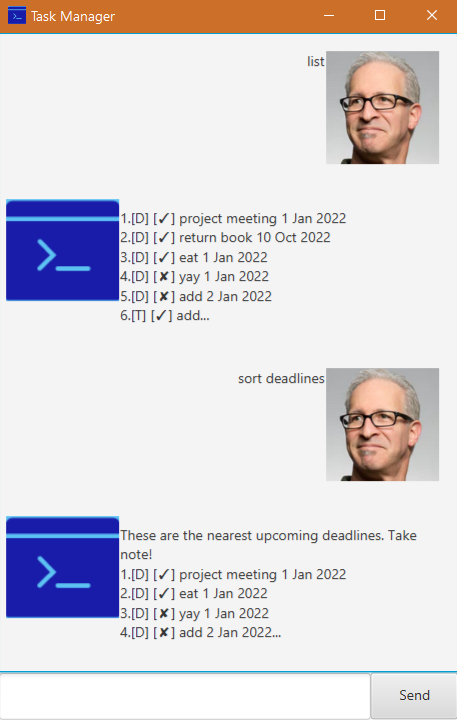
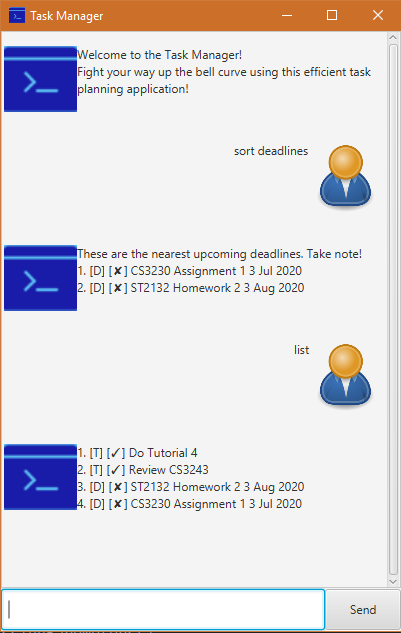
Update UI and README

Changed region(s): [[0.0, 0.0, 1.0, 1.0]]

diff --git a/src/main/java/Ui.java b/src/main/java/Ui.java
@@ -29,10 +29,10 @@ public class Ui {
     }
 
     public String showCommandNotFound() {
-        return "☹ OOPS!!! I'm sorry, but I don't know what that means :-(";
+        return "Sorry, I didn't get that. Please try again.";
     }
 
     public String showMissingParemeters() {
-        return "☹ OOPS!!! Either filter criterion (date/month/year) or its value is missing. Please try again.";
+        return "OOPS!!! Either filter criterion (date/month/year) or its value is missing. Please try again.";
     }
 }

diff --git a/src/main/java/TaskList.java b/src/main/java/TaskList.java
@@ -67,7 +67,7 @@ public class TaskList {
     public String printTasks() {
         StringBuilder result = new StringBuilder();
         for (int i = 0; i < tasks.size(); i++) {
-            result.append((i + 1) + "." + tasks.get(i).toString() + "\n");
+            result.append((i + 1) + ". " + tasks.get(i).toString() + "\n");
         }
         return result.toString();
     }

diff --git a/src/main/java/Duke.java b/src/main/java/Duke.java
@@ -158,7 +158,7 @@ public class Duke {
             final String BLAH_MESSAGE = "blah";
             return BLAH_MESSAGE;
         } else {
-            return ui.showCommandNotFound() + ui.showLineOfUnderscores();
+            return ui.showCommandNotFound();
         }
         return "I don't understand what you are saying";
     }

diff --git a/docs/README.md b/docs/README.md
@@ -1,22 +1,81 @@
-# User Guide
+# Task Manager User Guide
 
-## Features 
+## 1. Introduction
+Welcome to the Task Manager! Fight your way up the bell curve using this fabulous task management application!
 
-### Feature 1 
-Description of feature.
+Task Manager is your Personal Assistant to help you take notes of various tasks in your studies at NUS,
+which includes To-dos, Deadlines, or Events. To-dos are there to help you jot down any thing 
+academic related that you want to cover. Deadlines are for assignment/homework. Never getting chased
+by deadlines again by knowing all of your deadlines in advance! And events for anything related,
+e.g. a conference that you want to go. Many extra features come along such as, finding tasks
+according to a specific day or month, see nearest deadlines, and mark a task as completed.
+ 
+Task Manager (TM) is for NUS Students who want to use a desktop application for managing tasks.
+TM is optimised for those who like to work with Command Line Interface (CLI) while still having
+a renovated GUI. If you can type fast, which most NUS Computing students can, you will
+really love this app. Try it out!
 
-## Usage
+## 2. Quickstart
+1. Ensure that you have Java `11` or above installed in your Computer.
+2. Download the latest jar file [here](https://github.com/dinhnhobao/duke/releases/tag/v0.2).
+3. Copy the file to the folder you want to use as the home folder for your Duke.
+4. Double-click the file to start the app. The GUI should appear in a few seconds.
+5. Type the command in the command box and press `Enter` or the "Send" button to execute it.
+6. Some example commands you can try:
+* **`todo`**`pray to the bell curve god`: adds a Todo Task called "pray to bell curve god". A Todo has no timestamp.
+Why need a timestamp when you can "pray to the bell curve god" everyday?
+* *`list`* : lists all tasks. For now, you should see the task "pray to the bell curve god" above.
+* **`deadline`**`CS3230 Assignment 1/2020-03-07`: adds a deadline with a date in format YYYY-MM-DD. Who uses
+MM-DD anyways? *ahem*
+* **`deadline`**`Buy present/2020-03-08`: adds another deadline.
+* **`sort deadlines`**: Ta-da! Now you can see the nearest deadlines that you have. Never worried about
+missing a deadline anymore!
+* *`exit`* : exits the app. Bye bye!
 
-### `Keyword` - Describe action
+## 3. Screenshot
+![Screenshot of Ui](Ui.png)
 
-Describe action and its outcome.
+## 4. Features & Usage
 
-Example of usage: 
+### 1. `list`
+* Format: `list`
+* List down all of the current tasks that you have.
 
-`keyword (optional arguments)`
+### 2. `todo` 
+* Format: `todo <ACTIVITY>`
+* Adds a **ToDo** task to the task list.
+* Example: `todo cs3230 assignment 1`
 
-Expected outcome:
+### 2. `deadline`
+* Format: `deadline <ACTIVITY>/ <YYYY-MM-DD>`
+* Adds a **Deadline** task to the task list.
+* Example: `deadline CS2105 Assignment 1/ 2020-03-01`
 
-`outcome`
+### 3. `event`
+* Format: `event <ACTIVITY>/ <YYYY-MM-DD>`
+* Adds an **Event** task to the task list.
+* Example: `event mid-term CS3243/ 2020-03-07`
 
-Updated on 20 Feb 2020, will be finished later!
+### 5. `done`
+* Format: `done <INDEX>`
+* Marks the task as done at the specified `INDEX`. The index refers to the index number shown in the displayed task list. The index *must be a positive integer* 1, 2, 3, ...
+* Example: `done 3`
+
+### 6. `delete`
+* Format: `delete <INDEX>`
+* Deletes the task at the specified `INDEX`. The index refers to the index number shown in the displayed task list. The index *must be a positive integer* 1, 2, 3, ...
+* Example: `delete 2`
+
+### 7. `find`
+* Format: `find <NAME>`
+* Finds and returns the tasks whose names contain **STRING**.
+* Example: `find CS`
+
+### 8. `sort deadlines`
+* Format: `sort deadlines`
+* Finds and returns the nearest deadline tasks in your task list.
+* Example: `sort deadlines`
+
+### 9. `bye`
+* Format: `bye`
+* The application sends a Good bye note and exits.
